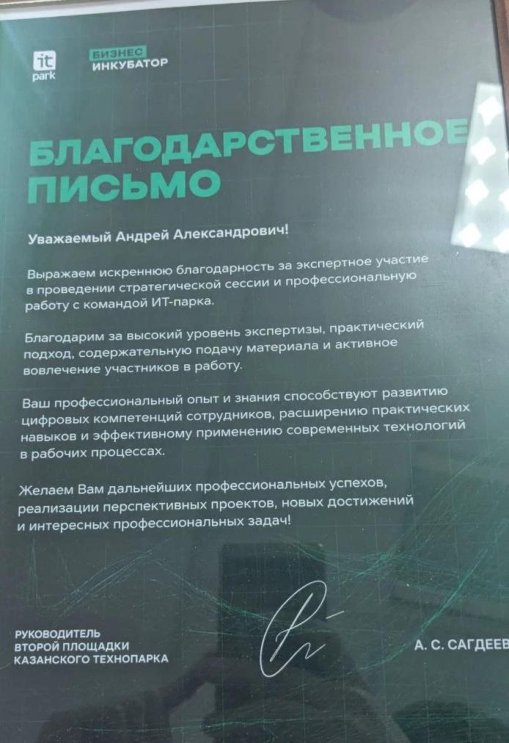
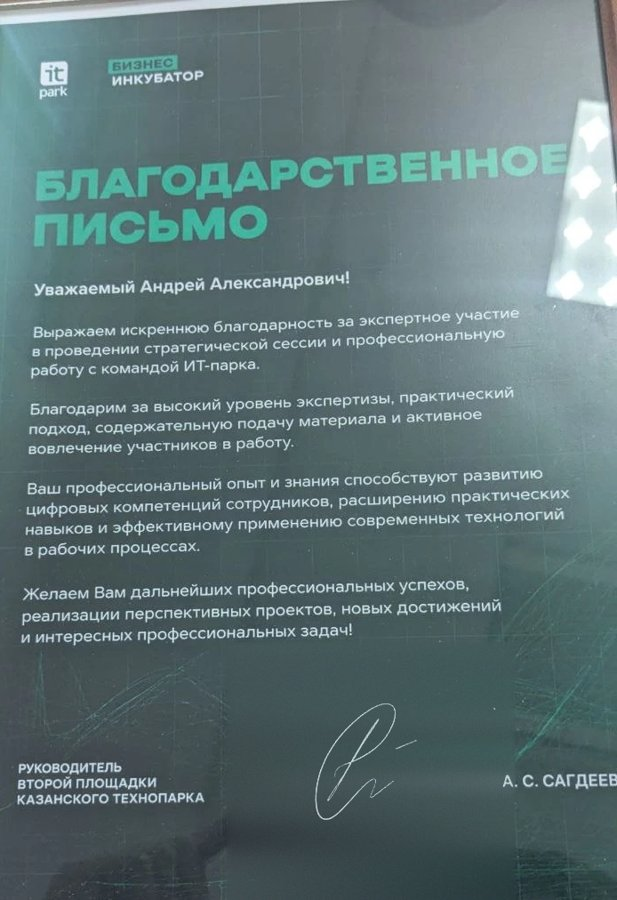
feat: страница ПРЕДЕЛ, обложка с картой, опыт работы в Достижениях
Благодарственное письмо ИТ-парка на сайте без отражения телефона.

diff --git a/app/templates/predel.html b/app/templates/predel.html
@@ -1,0 +1,60 @@
+{% extends "base.html" %}
+{% set active = 'home' %}
+{% block title %}ПРЕДЕЛ: места в школах для новых ЖК · {{ owner.name }}{% endblock %}
+
+{% block content %}
+<div class="wrap">
+  <section class="skills-section predel-page">
+    <div class="skills-head rise">
+      <h2 class="sec-title">// ПРЕДЕЛ</h2>
+    </div>
+    <h1 class="predel-title rise">Хватит ли мест в школе, если рядом построят новый дом</h1>
+    <p class="predel-lead rise">Сервис с картой Казани: для участка нового жилого комплекса показывает ближайшие школы, их загрузку по годам с учётом соседних строек и вердикт, хватит ли мест. Главное число считается по действующему нормативу, у каждого числа источник и дата.</p>
+    <figure class="predel-fig rise">
+      <img src="/static/docs/predel-screen.jpg" alt="Экран прототипа ПРЕДЕЛ: Приволжский район Казани, расчёт на 2028 год" />
+      <figcaption>Экран прототипа: Приволжский район Казани, расчёт на 2028 год для дома на 509 квартир у лицея № 133.</figcaption>
+    </figure>
+
+    <div class="skills-grid predel-grid">
+      <article class="skill-card rise">
+        <span class="skill-no">01</span>
+        <h3>Проблема</h3>
+        <p>Жильё строят быстрее, чем школы. Норматив считает места для каждого ЖК отдельно и не видит, что школа рядом уже заполнена. Гимназия № 107 открылась в 2023 году на 1 224 места, в 2026 году в ней учатся 2 260 детей.</p>
+      </article>
+      <article class="skill-card rise">
+        <span class="skill-no">02</span>
+        <h3>Решение</h3>
+        <p>Четыре шага на открытых данных: школа сегодня, прогноз без нового дома по возрастам детей района, места для ЖК по нормативу, баланс мест по годам. Застройщик и город видят нехватку или запас мест на стадии концепции.</p>
+      </article>
+      <article class="skill-card rise">
+        <span class="skill-no">03</span>
+        <h3>Проверка</h3>
+        <p>Медианная ошибка прогноза по школе 5,8% на год и 8,9% на два года (история Казани 2018-2026). Закрепление домов сверено с постановлением исполкома, 84 автоматические проверки расчёта.</p>
+      </article>
+    </div>
+
+    <figure class="predel-fig predel-fig-light rise">
+      <img src="/static/docs/predel-method.jpg" alt="Схема расчёта ПРЕДЕЛ: четыре шага и источники данных" />
+      <figcaption>Схема расчёта: четыре шага и источники данных.</figcaption>
+    </figure>
+
+    <div class="skills-grid predel-grid">
+      <article class="skill-card skill-card-wide rise">
+        <span class="skill-no">2026</span>
+        <h3>Хакатон и акселератор</h3>
+        <p>Топ-15 хакатона "Школа цифровых чемпионов 2026" (Татарстан) по задаче "Предиктивная оценка влияния жилой застройки", основная программа акселератора и Демо-день 13.11.2026.</p>
+        <div class="ach-imgs">
+          <a href="/static/docs/shcch-akselerator-2026.pdf" target="_blank" rel="noopener"><img src="/static/docs/shcch-akselerator-2026.jpg" alt="Сертификат участника акселерационной программы" loading="lazy" /></a>
+          <a href="/static/docs/shcch-demo-day-2026.pdf" target="_blank" rel="noopener"><img src="/static/docs/shcch-demo-day-2026.jpg" alt="Сертификат участника Демо-дня" loading="lazy" /></a>
+        </div>
+      </article>
+      <article class="skill-card rise">
+        <span class="skill-no">Роль</span>
+        <h3>Автор проекта</h3>
+        <p>Сбор и проверка данных, методика, расчёт, веб-интерфейс, презентация. Данные: Татарстанстат, edu.tatar.ru, bus.gov.ru, реестры Рособрнадзора и Госстройнадзора, OpenStreetMap.</p>
+      </article>
+    </div>
+    <p class="predel-back rise"><a href="/#projects">← Все проекты</a></p>
+  </section>
+</div>
+{% endblock %}

diff --git a/app/templates/index.html b/app/templates/index.html
@@ -151,7 +151,7 @@
             </div>
             {% endif %}
             {% if p.link and p.slug not in private and p.slug not in dev %}
-            <a class="project-go" href="{{ p.link }}" target="_blank" rel="noopener">Перейти ↗</a>
+            {% if p.link.startswith('/') %}<a class="project-go" href="{{ p.link }}">Подробнее →</a>{% else %}<a class="project-go" href="{{ p.link }}" target="_blank" rel="noopener">Перейти ↗</a>{% endif %}
             {% endif %}
           </div>
         </div>
@@ -238,9 +238,13 @@
         <div class="ach-imgs"><a href="/static/docs/it-park-blagodarnost-2026.pdf" target="_blank" rel="noopener"><img src="/static/docs/it-park-blagodarnost-2026.jpg" alt="Благодарственное письмо ИТ-парка" loading="lazy" /></a></div>
       </article>
       <article class="skill-card skill-card-wide rise">
-        <span class="skill-no">2022-2027</span>
-        <h3>Образование</h3>
-        <p>Московский университет имени А.С. Грибоедова: бакалавриат, направление 42.03.02 "Журналистика", профиль "Конвергентная журналистика", 5 курс, заочная форма.</p>
+        <span class="skill-no">Опыт и образование</span>
+        <ul class="ach-timeline">
+          <li><span class="t-when">2026 - сейчас</span><span class="t-what"><b>Разработчик</b>, ООО "НейроКонтур", резидент ИТ-парка. Программно-аппаратный комплекс МАЯК: платформа, аналитика, ИИ-модуль.</span></li>
+          <li><span class="t-when">2025 - сейчас</span><span class="t-what"><b>Разработчик цифровых продуктов, советник председателя</b>, Российское Содружество Колледжей. Тренажёр МАЯК, автоматизация на n8n, Telegram-боты, LLM, со-тренер по работе с ИИ.</span></li>
+          <li><span class="t-when">2023 - 2025</span><span class="t-what"><b>Ведущий специалист Дирекции вузов и СПО</b>, Движение Первых. Цифровая платформа команда-первых.рф: ТЗ, приёмка, геймификация, внедрение ИИ в работу команды.</span></li>
+          <li><span class="t-when">2022 - 2027</span><span class="t-what"><b>Бакалавриат</b>, Московский университет имени А.С. Грибоедова: 42.03.02 "Журналистика", профиль "Конвергентная журналистика", 5 курс, заочно.</span></li>
+        </ul>
       </article>
     </div>
   </section>

diff --git a/app/static/css/site.css b/app/static/css/site.css
@@ -1261,3 +1261,20 @@ body::after {
 .project-status.is-dev .status-dot { background: #FBBF24; box-shadow: 0 0 8px #FBBF24; }
 .project-status.is-dev .status-dot::after { border-color: #FBBF24; }
 .project-status.is-dev .status-text { color: #FCD34D; }
+
+/* Достижения: опыт и образование; страница ПРЕДЕЛ */
+.ach-timeline { list-style: none; margin: 1.2rem 0 0; padding: 0; display: grid; gap: 1rem; }
+.ach-timeline li { display: grid; grid-template-columns: 9rem 1fr; gap: 1rem; color: var(--fg-muted); font-size: var(--body-sm); line-height: 1.55; }
+.ach-timeline .t-when { font-family: var(--font-mono); color: rgb(var(--signal)); }
+.ach-timeline b { color: #FFFFFF; font-weight: 600; }
+@media (max-width: 36rem) { .ach-timeline li { grid-template-columns: 1fr; gap: 0.2rem; } }
+.predel-page { padding-top: calc(var(--space-lg) + 3rem); }
+.predel-title { font-size: clamp(1.8rem, 4vw, 3rem); line-height: 1.15; color: #FFFFFF; margin: 1rem 0; max-width: 50rem; }
+.predel-lead { color: var(--fg-muted); max-width: 50rem; line-height: 1.6; margin: 0 0 2rem; }
+.predel-fig { margin: 0 0 2rem; }
+.predel-fig img { width: 100%; height: auto; display: block; border-radius: 16px; border: 1px solid rgba(255, 255, 255, 0.1); }
+.predel-fig-light img { background: #FFFFFF; padding: 1rem; }
+.predel-fig figcaption { color: var(--fg-faint); font-size: 0.85rem; margin-top: 0.6rem; }
+.predel-grid { margin-bottom: 2rem; }
+.predel-back a { color: rgb(var(--signal)); font-family: var(--font-mono); text-decoration: none; }
+.predel-fig-light { max-width: 60rem; margin-inline: auto; }

diff --git a/tools/export_static.py b/tools/export_static.py
@@ -59,7 +59,7 @@ if OUT.exists():
 OUT.mkdir(parents=True)
 db.init_db()
 run_seed()
-pages = ["/", "/about", "/experience", "/blog"] + [f"/blog/{p['slug']}" for p in db.list_posts() if p["published"]]
+pages = ["/", "/predel", "/about", "/experience", "/blog"] + [f"/blog/{p['slug']}" for p in db.list_posts() if p["published"]]
 for path in pages:
     r = get(path)
     assert r.status_code == 200, (path, r.status_code)

diff --git a/app/main.py b/app/main.py
@@ -134,6 +134,11 @@ def projects(request: Request):
     return RedirectResponse("/", status_code=303)
 
 
+@app.get("/predel", response_class=HTMLResponse)
+def predel(request: Request):
+    return render(request, "predel.html")
+
+
 @app.get("/about", response_class=HTMLResponse)
 def about(request: Request):
     return render(request, "about.html", about=ABOUT)

diff --git a/app/seed.py b/app/seed.py
@@ -20,7 +20,7 @@ SEED_PROJECTS = [
         "tags": "AI-продукты, данные, урбанистика",
         "role": "Автор проекта",
         "year": "2026",
-        "link": "/#achievements",
+        "link": "/predel",
         "featured": 1,
         "sort_order": 0,
     },
